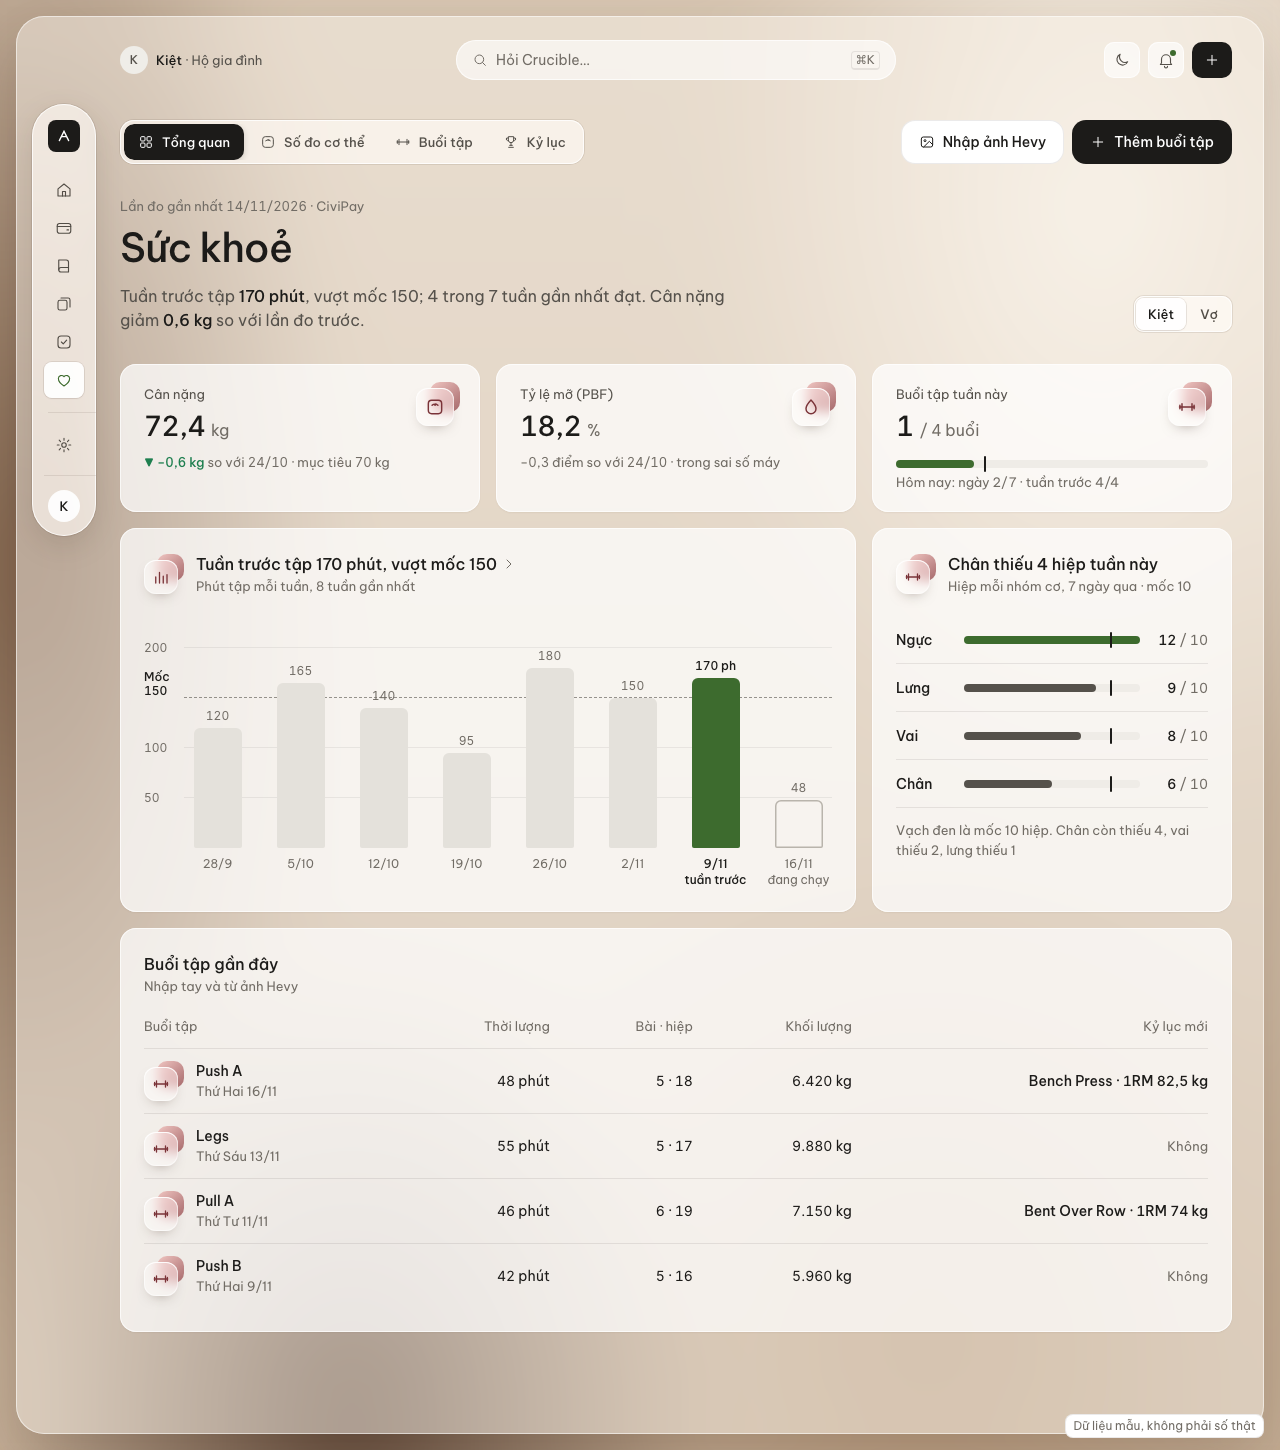
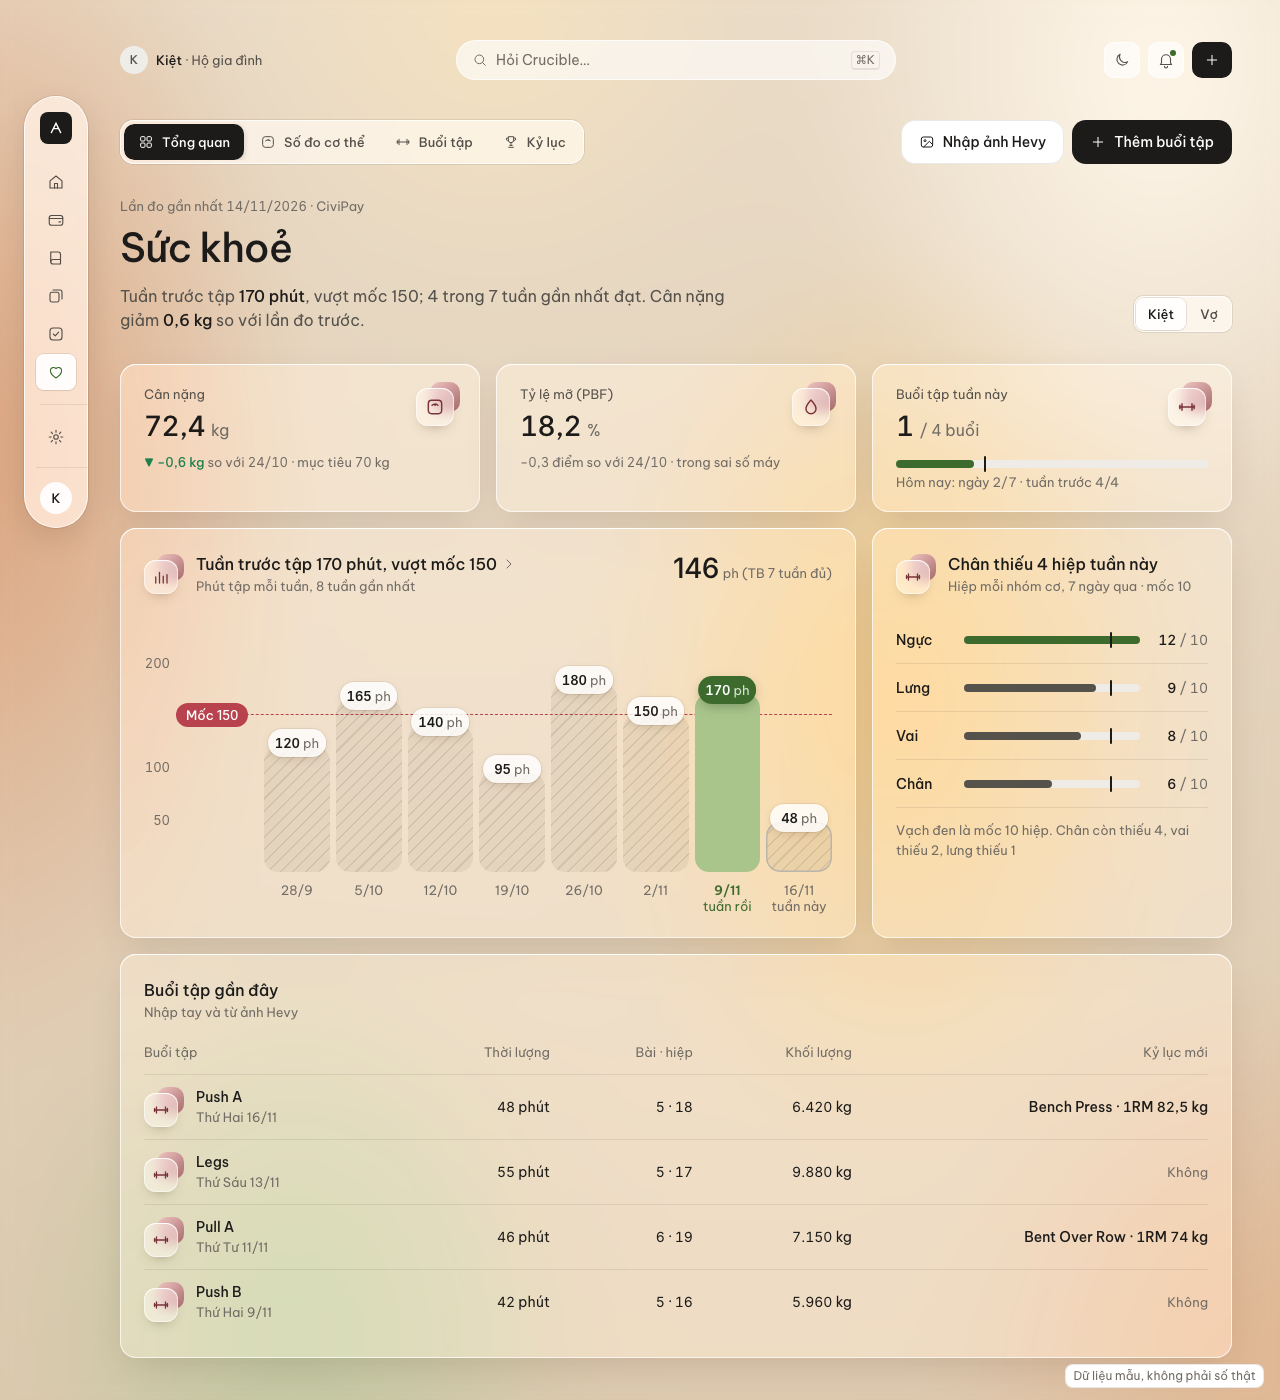
Demo giao diện sạch: biểu đồ cột kiểu viên số (cột gạch chéo, một cột nhấn, đường tham chiếu có nhãn đặc) và thẻ So với ngân sách dùng vòng tiến độ (dữ liệu mẫu)

diff --git a/1991-new-design/demo/clean/demo.html b/1991-new-design/demo/clean/demo.html
@@ -465,6 +465,77 @@ html[data-theme="dark"]{
   .bars,.xl{--gap:8px}
   .mock{left:auto;right:8px;bottom:8px}
 }
+
+/* =====================================================================
+   BIỂU ĐỒ CỘT KIỂU "VIÊN SỐ": cột rộng bo tròn sát nhau; cột thường nền rất nhạt
+   + gạch chéo mảnh; trên đỉnh có viên số nổi (trắng mờ, số đậm, đơn vị nhạt) chồng lên
+   đỉnh cột; ĐÚNG MỘT cột nhấn tô đặc màu nhấn nhạt + viên số đặc màu nhấn đậm. Đường
+   tham chiếu nét đứt màu đất-hồng, viên nhãn đặc nằm ở mép trái NGOÀI vùng cột nên không
+   đè viên số. Không kẻ lưới. ≤760px: cuộn ngang trong thẻ (mỗi cột ≥ 60px).
+   ===================================================================== */
+:root{--vb-fill:rgba(70,50,30,.07);--vb-hatch:rgba(70,50,30,.11);--vb-acc:#A9C58C;--vp-bg:rgba(255,255,255,.82);--vp-line:rgba(60,40,25,.08);
+  --ref:#B8434E;--ref-ink:#FFFFFF}
+html[data-theme="dark"]{--vb-fill:rgba(255,255,255,.07);--vb-hatch:rgba(255,255,255,.10);--vb-acc:rgba(163,196,127,.5);--vp-bg:rgba(62,54,48,.96);--vp-line:rgba(255,255,255,.10);
+  --ref:#E58A92;--ref-ink:#2B1416}
+.vbs{overflow-x:auto;scrollbar-width:thin;padding-top:30px;margin-top:-4px}
+.vb{position:relative;padding-left:var(--gut,120px)}
+.vb .plot{position:relative;height:var(--h,220px)}
+.vb .vcols{display:flex;gap:6px;height:100%;position:relative;z-index:2}
+.vb .vc{flex:1;min-width:0;position:relative}
+.vb .vbar{position:absolute;left:0;right:0;bottom:0;border-radius:14px;
+  background:repeating-linear-gradient(135deg,var(--vb-hatch) 0 1.5px,transparent 1.5px 9px),var(--vb-fill)}
+.vb .vbar.acc{background:var(--vb-acc)}
+.vb .vbar.part{box-shadow:inset 0 0 0 1.5px var(--dash)}
+.vb .vp{position:absolute;left:50%;transform:translateX(-50%);min-width:calc(100% - 8px);height:28px;padding:0 6px;border-radius:14px;display:flex;align-items:center;justify-content:center;gap:3px;white-space:nowrap;
+  background:var(--vp-bg);box-shadow:0 0 0 1px var(--vp-line),0 3px 10px -2px rgba(60,40,25,.16);color:var(--ink);font-size:13px;line-height:16px;font-family:var(--fig);font-variant-numeric:tabular-nums}
+.vb .vp b{font-weight:600}
+.vb .vp .u{font-size:13px}
+.vb .vp.acc{background:var(--acc);color:var(--acc-ink);box-shadow:0 4px 12px -2px rgba(40,60,30,.35)}
+.vb .vp.acc .u{color:inherit;opacity:.82}
+.vb .vp.nil{color:var(--muted)}
+.vb .vref{position:absolute;left:calc(-1 * var(--gut,120px) + 32px);right:0;height:0;border-top:1.5px dashed var(--ref);z-index:1}
+.vb .vrl{position:absolute;left:calc(-1 * var(--gut,120px) + 32px);transform:translateY(50%);height:24px;padding:0 10px;border-radius:12px;background:var(--ref);color:var(--ref-ink);font-size:13px;line-height:24px;font-weight:500;white-space:nowrap;z-index:3;font-family:var(--fig)}
+.vb .yl{position:absolute;left:calc(-1 * var(--gut,120px));width:26px;text-align:right;transform:translateY(50%);font-size:13px;line-height:16px;color:var(--muted);z-index:0}
+.vb .vx{display:flex;gap:6px;margin-top:10px}
+.vb .vx span{flex:1;min-width:0;text-align:center;color:var(--muted);font-size:13px;line-height:16px}
+.vb .vx span small{display:block;font-size:13px;color:var(--muted)}
+.vb .vx span.on{color:var(--acc);font-weight:600}
+.vb .vx span.on small{color:var(--acc);font-weight:400}
+.vb.noy{--gut:0px}
+.vb.noy .vref,.vb.noy .vrl{left:0}
+.vb.noy .vrl{height:22px;line-height:22px;padding:0 8px}
+.vb.noy .vcols,.vb.noy .vx{gap:4px}
+.vb.noy .vp{height:26px;padding:0 4px;min-width:calc(100% - 4px)}
+.hd.hs .sum{flex:none;text-align:right;font-size:28px;line-height:32px;font-weight:500;letter-spacing:-.02em;font-family:var(--fig);white-space:nowrap}
+.hd.hs .sum .u{font-size:13px;letter-spacing:0;margin-left:4px}
+.vbwrap{margin-top:auto;padding-top:20px}
+.vbhead{display:flex;justify-content:space-between;align-items:baseline;gap:12px}
+.vbhead .cap{color:var(--ink2);font-size:13px}
+.vbhead .sum{font-size:20px;line-height:28px;font-weight:500;letter-spacing:-.02em;font-family:var(--fig);white-space:nowrap}
+.vbhead .sum .u{font-size:13px;letter-spacing:0;margin-left:4px}
+
+/* So với ngân sách: vòng nhỏ = TIẾN ĐỘ của một đại lượng (đã chi / ngân sách của từng nhóm),
+   không phải cơ cấu. Rãnh xám nhạt, phần đạt tô màu; vạch mực trên vòng = nhịp ngày. */
+.bud .brow{display:grid;grid-template-columns:40px minmax(0,1fr) auto;align-items:center;gap:12px;padding:12px 0;border-bottom:1px solid var(--line)}
+.bud .brow:first-child{padding-top:0}
+.bud .nm{font-weight:500}
+.bud .am{font-size:13px;line-height:18px;color:var(--muted);font-family:var(--fig);font-variant-numeric:tabular-nums;white-space:nowrap}
+.bud .rg{display:flex;align-items:center;gap:10px}
+.bud .rg svg{width:32px;height:32px;flex:none}
+.bud .rg .trk{stroke:var(--bar)}
+.bud .rg .pc{display:block;font-weight:500;line-height:18px;font-family:var(--fig);font-variant-numeric:tabular-nums}
+.bud .rg .st{display:flex;align-items:center;gap:6px;font-size:13px;line-height:16px;color:var(--muted);white-space:nowrap}
+.bud .rg .st i{width:6px;height:6px;border-radius:50%;flex:none;background:var(--acc)}
+.bud .rg .st.w{color:var(--warn-t)}.bud .rg .st.w i{background:var(--warn)}
+.bud .rg .st.x{color:var(--bad-t);font-weight:500}.bud .rg .st.x i{background:var(--bad)}
+.bud .rg>div{min-width:76px}
+@media (max-width:760px){
+  .vb{min-width:calc(var(--gut,120px) + var(--n) * 60px)}
+  .vb.noy{min-width:0}
+  .hd.hs{flex-wrap:wrap}
+  .hd.hs .sum{order:3;width:100%;text-align:left;font-size:24px}
+  .bud .rg{gap:8px}.bud .rg>div{min-width:72px}
+}
 </style>
 </head>
 <body>
@@ -548,8 +619,7 @@ html[data-theme="dark"]{
           <div style="display:flex;align-items:baseline;gap:8px"><span class="num" style="font-size:28px;line-height:36px;font-weight:500;letter-spacing:-.02em">12,4</span><span class="u">/ 20 triệu ₫</span></div>
           <div class="pace" style="margin-top:12px"><div class="fill" style="width:62%"></div><div class="tick" style="left:57%"></div></div>
           <div class="pace-cap"><span>Đã chi <b class="num">62%</b></span><span>Hôm nay: ngày 17/30</span></div>
-          <div class="days" id="days"></div>
-          <div class="note" style="text-align:center">Chi mỗi ngày tuần này</div>
+          <div class="vbwrap" id="days"></div>
         </a>
 
         <a class="card c7" href="#">
@@ -597,13 +667,13 @@ html[data-theme="dark"]{
         </a>
 
         <a class="card c7" href="#">
-          <div class="hd"><span class="gi spend"><svg data-i="bars"></svg></span><div class="grow"><div class="t">Tháng 9 chi nhiều nhất 6 tháng: 16,4 triệu<svg data-i="chev"></svg></div><div class="s">Cao hơn trung bình 5 tháng đủ (14,6 tr) khoảng 1,8 triệu</div></div></div>
-          <div id="sixM" style="margin-top:32px"></div>
+          <div class="hd hs"><span class="gi spend"><svg data-i="bars"></svg></span><div class="grow"><div class="t">Tháng 9 chi nhiều nhất 6 tháng: 16,4 triệu<svg data-i="chev"></svg></div><div class="s">Cao hơn trung bình 5 tháng đủ (14,6 tr) khoảng 1,8 triệu</div></div><div class="sum">14,6<span class="u">tr ₫ (TB 5 tháng)</span></div></div>
+          <div id="sixM" style="margin-top:8px"></div>
         </a>
 
-        <a class="card c5" href="#">
-          <div class="hd"><span class="gi spend"><svg data-i="cup"></svg></span><div class="grow"><div class="t">Ăn uống dẫn đầu: 34% chi tháng này<svg data-i="chev"></svg></div><div class="s">Theo nhóm chi, 1/11 – 17/11</div></div></div>
-          <div class="rank" id="rank"></div>
+        <a class="card c5 bud" href="#">
+          <div class="hd"><span class="gi spend"><svg data-i="target"></svg></span><div class="grow"><div class="t">So với ngân sách: Mua sắm vượt 14%, 2 nhóm quá nhịp<svg data-i="chev"></svg></div><div class="s">Đã chi / ngân sách tháng 11, theo nhóm chi</div></div></div>
+          <div id="budget"></div>
         </a>
 
         <div class="card c7">
@@ -647,8 +717,8 @@ html[data-theme="dark"]{
 
       <div class="grid">
         <a class="card c8" href="#">
-          <div class="hd"><span class="gi health"><svg data-i="bars"></svg></span><div class="grow"><div class="t">Tuần trước tập 170 phút, vượt mốc 150<svg data-i="chev"></svg></div><div class="s">Phút tập mỗi tuần, 8 tuần gần nhất</div></div></div>
-          <div id="weekBars" style="margin-top:32px"></div>
+          <div class="hd hs"><span class="gi health"><svg data-i="bars"></svg></span><div class="grow"><div class="t">Tuần trước tập 170 phút, vượt mốc 150<svg data-i="chev"></svg></div><div class="s">Phút tập mỗi tuần, 8 tuần gần nhất</div></div><div class="sum">146<span class="u">ph (TB 7 tuần đủ)</span></div></div>
+          <div id="weekBars" style="margin-top:8px"></div>
         </a>
         <div class="card c4">
           <div class="hd"><span class="gi health"><svg data-i="dumbbell"></svg></span><div class="grow"><div class="t">Chân thiếu 4 hiệp tuần này</div><div class="s">Hiệp mỗi nhóm cơ, 7 ngày qua · mốc 10</div></div></div>
@@ -761,39 +831,51 @@ document.getElementById('ledgerRows').innerHTML=ledger.map(t=>rowTx(t,S[t.st])).
  document.getElementById('nwX').innerHTML=m.map((x,i)=>`<span class="${i==11?'on':''}">${x}</span>`).join('');
 })();
 
-/* ===== Chi theo ngày tuần này (chỉ có ngày đã qua) ===== */
-(function(){
- const days=[['T2',420],['T3',65,1],['T4'],['T5'],['T6'],['T7'],['CN']];
- const max=480;
- document.getElementById('days').innerHTML=days.map(([d,v,on])=>{
-  if(v===undefined) return `<div class="d fut"><div class="st"><div class="b"></div></div><div class="lab">${d}</div></div>`;
-  const h=Math.max(4,Math.round(v/max*88));
-  return `<div class="d ${on?'on':''}"><div class="st"><div class="b" style="height:${h}px"></div><span class="val" style="bottom:${h+4}px">${v}k</span></div><div class="lab">${d}</div></div>`;
- }).join('');
-})();
-
-/* ===== Biểu đồ cột: xám mặc định, một cột nhấn, cột chưa đủ kỳ là viền đứt ===== */
-function bars(el,{data,max,ref,refLabel,unit,h=220,yt=[]}){
+/* ===== Biểu đồ cột kiểu viên số (dùng chung 3 chỗ) =====
+   d: {x, sx?, v|null, lab, k?: 'acc'|'part'}. Một cột 'acc' duy nhất. v=null → cột rỗng thấp + "–". */
+function vbars(el,{data,max,ref,refLabel,unit,h=220,yt=[],noy=false,head}){
  const y=v=>v/max*100;
- el.innerHTML=`<div class="bars" style="--h:${h}px">
-  ${yt.map(t=>`<div class="gridl" style="bottom:${y(t)}%"></div><span class="yl" style="bottom:${y(t)}%">${t}</span>`).join('')}
-  ${ref!=null?`<div class="ref" style="bottom:${y(ref)}%"></div><span class="reflab num" style="bottom:${y(ref)}%;transform:none">${refLabel}</span>`:''}
-  ${data.map(d=>`<div class="col"><div class="b ${d.k||''}" style="height:${y(d.v)}%"><span class="vlab ${d.k==='acc'?'on':''}">${d.lab}</span></div></div>`).join('')}
- </div><div class="xl">${data.map(d=>`<span class="${d.k==='acc'?'on':''}">${d.x}${d.sx?`<small>${d.sx}</small>`:''}</span>`).join('')}</div>`;
+ const col=d=>{
+  if(d.v==null) return `<div class="vc"><div class="vbar" style="height:8%"></div><span class="vp nil" style="bottom:calc(8% - 8px)">–</span></div>`;
+  const hh=Math.max(y(d.v),5);
+  return `<div class="vc"><div class="vbar ${d.k||''}" style="height:${hh}%"></div><span class="vp ${d.k==='acc'?'acc':''}" style="bottom:calc(${hh}% - 10px)"><b>${d.lab}</b>${unit?`<span class="u">${unit}</span>`:''}</span></div>`;};
+ el.innerHTML=`${head||''}<div class="vbs"><div class="vb ${noy?'noy':''}" style="--n:${data.length};--h:${h}px">
+  <div class="plot">
+   ${noy?'':yt.map(t=>`<span class="yl num" style="bottom:${y(t)}%">${t}</span>`).join('')}
+   ${ref!=null?`<i class="vref" style="bottom:${y(ref)}%"></i><span class="vrl" style="bottom:${y(ref)}%">${refLabel}</span>`:''}
+   <div class="vcols">${data.map(col).join('')}</div>
+  </div>
+  <div class="vx">${data.map(d=>`<span class="${d.k==='acc'?'on':''}">${d.x}${d.sx?`<small>${d.sx}</small>`:''}</span>`).join('')}</div>
+ </div></div>`;
 }
-bars(document.getElementById('sixM'),{max:20,ref:14.6,refLabel:'TB 14,6',h:220,yt:[5,10,20],data:[
+/* Chi mỗi ngày tuần này (Tổng quan): hôm nay T3 = cột nhấn; ngày chưa tới = cột rỗng + "–"; đường = nhịp ngân sách/ngày (20 tr / 30 ngày) */
+vbars(document.getElementById('days'),{noy:true,max:800,ref:667,refLabel:'Nhịp 667k',unit:'k',h:132,
+ head:'<div class="vbhead"><span class="cap">Chi mỗi ngày tuần này</span><span class="sum">485<span class="u">k ₫ tuần này</span></span></div>',
+ data:[{x:'T2',v:420,lab:'420'},{x:'T3',v:65,lab:'65',k:'acc'},{x:'T4',v:null},{x:'T5',v:null},{x:'T6',v:null},{x:'T7',v:null},{x:'CN',v:null}]});
+vbars(document.getElementById('sixM'),{max:20,ref:14.6,refLabel:'TB 14,6 tr',unit:'tr',h:230,yt:[5,10,20],data:[
  {x:'T6',v:14.1,lab:'14,1'},{x:'T7',v:15.8,lab:'15,8'},{x:'T8',v:13.2,lab:'13,2'},
- {x:'T9',v:16.4,lab:'16,4 tr',k:'acc'},{x:'T10',v:13.5,lab:'13,5'},{x:'T11',sx:'tới 17/11',v:12.4,lab:'12,4',k:'part'}]});
-bars(document.getElementById('weekBars'),{max:220,ref:150,refLabel:'Mốc 150',h:220,yt:[50,100,200],data:[
+ {x:'T9',v:16.4,lab:'16,4',k:'acc'},{x:'T10',v:13.5,lab:'13,5'},{x:'T11',sx:'tới 17/11',v:12.4,lab:'12,4',k:'part'}]});
+vbars(document.getElementById('weekBars'),{max:220,ref:150,refLabel:'Mốc 150',unit:'ph',h:230,yt:[50,100,200],data:[
  {x:'28/9',v:120,lab:'120'},{x:'5/10',v:165,lab:'165'},{x:'12/10',v:140,lab:'140'},{x:'19/10',v:95,lab:'95'},
- {x:'26/10',v:180,lab:'180'},{x:'2/11',v:150,lab:'150'},{x:'9/11',sx:'tuần trước',v:170,lab:'170 ph',k:'acc'},{x:'16/11',sx:'đang chạy',v:48,lab:'48',k:'part'}]});
+ {x:'26/10',v:180,lab:'180'},{x:'2/11',v:150,lab:'150'},{x:'9/11',sx:'tuần rồi',v:170,lab:'170',k:'acc'},{x:'16/11',sx:'tuần này',v:48,lab:'48',k:'part'}]});
 
-/* ===== Xếp hạng nhóm chi ===== */
+/* ===== So với ngân sách: vòng tiến độ từng nhóm (dữ liệu mẫu theo bảng Budget: categoryGroup, amount) =====
+   Dưới nhịp ngày = màu nhấn · vượt nhịp = cảnh báo · vượt 100% = --bad, vòng đầy + "Vượt n%". Vạch mực = nhịp ngày 17/30. */
 (function(){
- const r=[['Ăn uống',4200000],['Nhà cửa',3100000],['Đi lại',1650000],['Mua sắm',1480000],['Khác',1970000,1]];
- const tot=12400000,max=4200000;
- document.getElementById('rank').innerHTML=r.map(([n,v,o],i)=>`<div class="row"><span>${n}</span><span class="amt">${vnd(v)} ₫<small>${Math.round(v/tot*100)}%</small></span><div><div class="bar ${i==0?'acc':(o?'o':'')}" style="width:${v/max*100}%"></div></div></div>`).join('')
-  +`<div class="note" style="margin-top:0">“Khác” gộp 6 nhóm nhỏ: Sức khoẻ, Giải trí, Quà tặng…</div>`;
+ const PACE=17/30, C=2*Math.PI*13;
+ const fm=n=>(n/1e6).toLocaleString('vi-VN',{minimumFractionDigits:1,maximumFractionDigits:2});
+ const r=[['Ăn uống','cup',4200000,5000000],['Nhà cửa','home',3100000,6000000],['Đi lại','car',1650000,2400000],['Mua sắm','bag',1480000,1300000],['Khác','grid',1970000,5300000]];
+ document.getElementById('budget').innerHTML=r.map(([n,i,sp,bd])=>{
+  const p=sp/bd, pc=Math.round(p*100);
+  const cls=p>1?'x':(p>PACE?'w':''), col=p>1?'var(--bad)':(p>PACE?'var(--warn)':'var(--acc)');
+  const st=p>1?`Vượt ${pc-100}%`:(p>PACE?'Quá nhịp':'Trong nhịp');
+  const d=Math.min(p,1)*C;
+  return `<div class="brow"><span class="gi spend">${ic(i)}</span><div><div class="nm">${n}</div><div class="am">${fm(sp)} / ${fm(bd)} tr ₫</div></div>
+  <div class="rg"><svg viewBox="0 0 32 32" role="img" aria-label="${n}: ${pc}% ngân sách"><circle class="trk" cx="16" cy="16" r="13" fill="none" stroke-width="4"/>
+   <circle cx="16" cy="16" r="13" fill="none" stroke="${col}" stroke-width="4" stroke-linecap="${p>=1?'butt':'round'}" stroke-dasharray="${d} ${C}" transform="rotate(-90 16 16)"/>
+   <line x1="16" y1="0.5" x2="16" y2="7.5" stroke="var(--ink)" stroke-width="1.75" transform="rotate(${PACE*360} 16 16)"/></svg>
+   <div><span class="pc">${pc}%</span><span class="st ${cls}"><i></i>${st}</span></div></div></div>`;}).join('')
+  +`<div class="note" style="margin-top:4px">Vạch đen trên vòng là nhịp ngày 17/30. “Khác” gộp 6 nhóm nhỏ. Dữ liệu mẫu.</div>`;
 })();
 
 /* ===== Sức khoẻ ===== */
